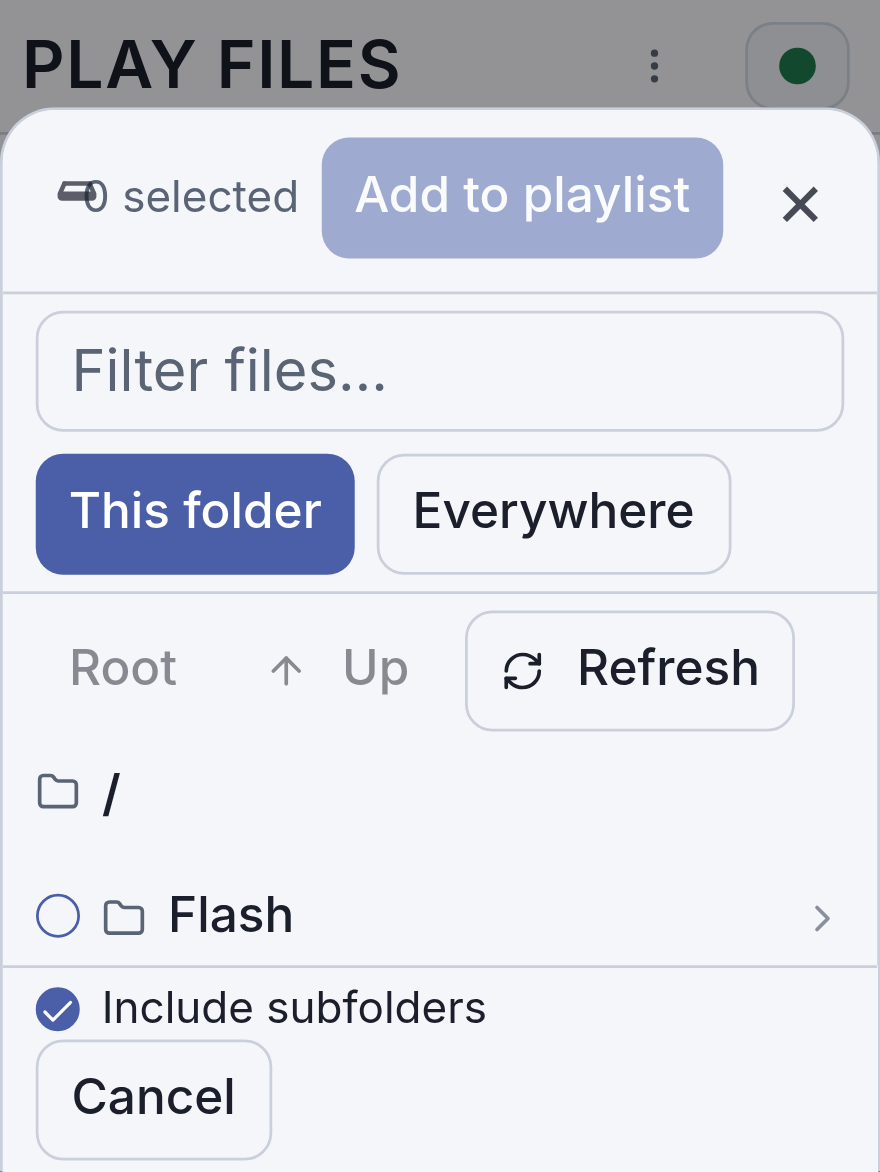
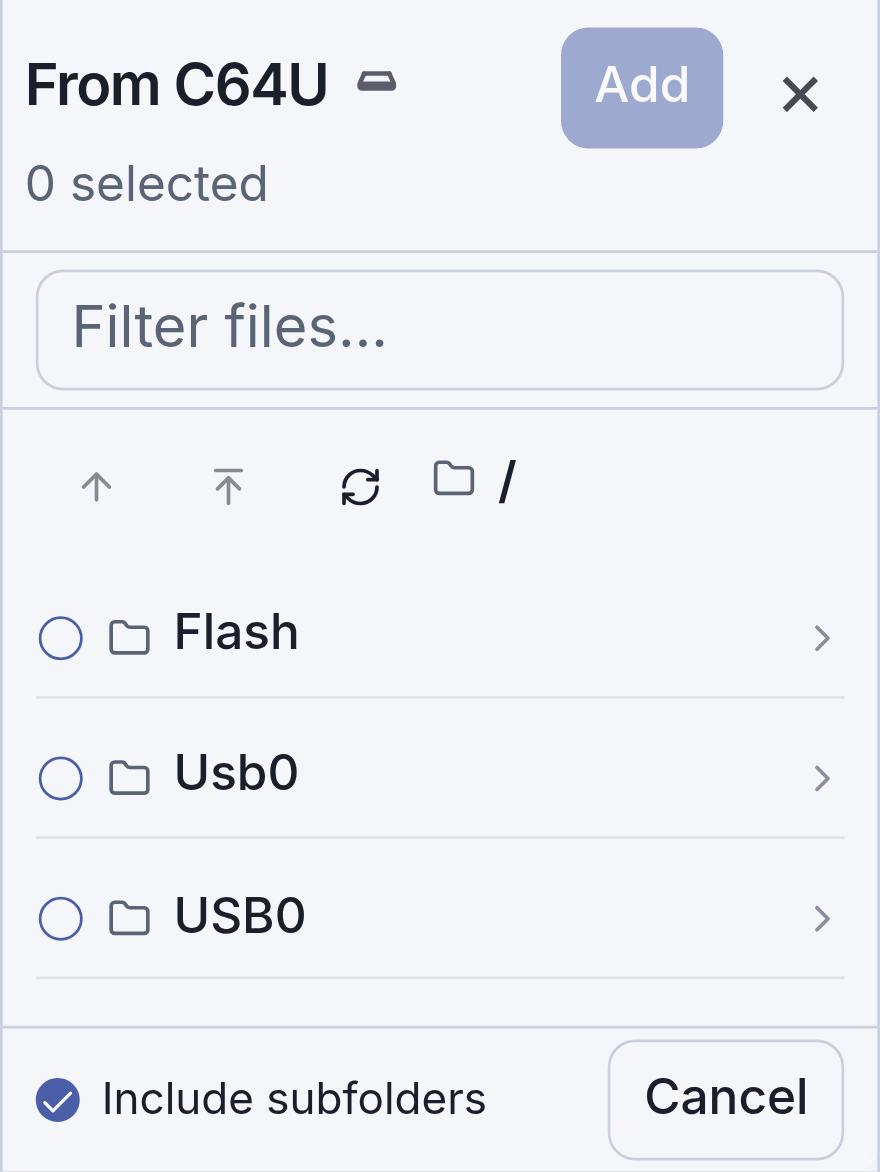
fix(browse): keep the source title readable in the compact picker header
On a 320 px screen the header holds the source title, the confirm button
and Close. With "Add to playlist" on the button the title was cut to
"Fro...". The compact header copy of the button now shows the verb only
("Add", "Mount") and keeps the full label as its accessible name.

The compact scope control appears once there is search text, so the HVSC
scope capture now searches a folder with a match; the mocked archive has no
search index for an everywhere search to show. The manual caption for that
picture now describes the choice. Screenshots updated: the compact C64U
picker and the compact and medium HVSC scope pictures.

diff --git a/playwright/screenshots.spec.ts b/playwright/screenshots.spec.ts
@@ -3369,10 +3369,20 @@ test.describe("App screenshots", () => {
       // other three are README pictures and stay at the medium profile the whole file is
       // captured at.
       await applyDisplayProfileViewport(page, "compact");
-      const scope = readyDialog.getByTestId("add-items-search-scope");
-      await expect(scope).toBeVisible();
-      await readyDialog.getByTestId("add-items-scope-source").click();
-      await expect(readyDialog.getByTestId("add-items-scope-source")).toHaveAttribute("aria-pressed", "true");
+      // The compact profile shows the scope control once there is something to search for. The
+      // mocked archive has no search index, so the picture searches a folder that has a match.
+      for (const folder of ["MUSICIANS", "A"]) {
+        await readyDialog
+          .getByTestId("source-entry-row")
+          .filter({ hasText: new RegExp(`^\\s*${folder}\\s*$`) })
+          .first()
+          .click();
+      }
+      await readyDialog.getByTestId("add-items-filter").fill("Second");
+      await expect(readyDialog.getByTestId("add-items-search-scope")).toBeVisible();
+      await readyDialog.getByTestId("add-items-scope-folder").click();
+      await expect(readyDialog.getByTestId("add-items-scope-folder")).toHaveAttribute("aria-pressed", "true");
+      await expect(readyDialog.getByTestId("source-entry-row").filter({ hasText: /Second/ })).toBeVisible();
       // One rendition per manual profile; each manual embeds only its own.
       for (const profileId of MANUAL_PROFILE_SEQUENCE) {
         await applyDisplayProfileViewport(page, profileId);

diff --git a/src/components/itemSelection/ItemSelectionDialog.tsx b/src/components/itemSelection/ItemSelectionDialog.tsx
@@ -44,6 +44,7 @@ const isLocalAutoConfirmDisabled = () =>
   typeof window !== "undefined" &&
   Boolean((window as Window & { __c64uDisableLocalAutoConfirm?: boolean }).__c64uDisableLocalAutoConfirm);
 
+const firstWord = (label: string): string => label.split(" ")[0];
 export type SourceGroup = {
   label: string;
   sources: SourceLocation[];
@@ -617,6 +618,8 @@ export const ItemSelectionDialog = ({
     </p>
   );
 
+  // The header shares one line with the source title on a 320 px screen, where "Add to playlist"
+  // left the title as "Fro…". The verb says what the button does; the page says where to.
   const headerConfirmButton = showCompactHeaderConfirm ? (
     <Button
       variant="default"
@@ -624,9 +627,10 @@ export const ItemSelectionDialog = ({
       onClick={handleConfirm}
       disabled={isConfirming || autoConfirming || activeSelectionCount === 0}
       data-testid="add-items-confirm"
+      aria-label={resolvedConfirmLabel}
       className="shrink-0"
     >
-      {resolvedConfirmLabel}
+      {firstWord(resolvedConfirmLabel)}
     </Button>
   ) : null;
 

diff --git a/tests/unit/components/itemSelection/ItemSelectionDialog.test.tsx b/tests/unit/components/itemSelection/ItemSelectionDialog.test.tsx
@@ -269,6 +269,22 @@ describe("ItemSelectionDialog display profiles", () => {
     vi.useRealTimers();
   });
 
+  it("keeps the source title readable on the smallest screen by naming only the confirm verb", async () => {
+    localStorage.clear();
+    setViewportWidth(320);
+
+    render(
+      <DisplayProfileProvider>
+        <Harness />
+      </DisplayProfileProvider>,
+    );
+    fireEvent.click(screen.getByRole("button", { name: "Add file / folder from C64U" }));
+
+    const confirm = await screen.findByTestId("add-items-confirm");
+    expect(confirm).toHaveTextContent(/^Add$/);
+    expect(confirm).toHaveAccessibleName("Add to playlist");
+  });
+
   it("keeps the browser as a sheet across profile changes while preserving selection and filter state", async () => {
     localStorage.clear();
     setViewportWidth(360);

diff --git a/docs/manual/c64u-remote/c64u-remote-manual.md b/docs/manual/c64u-remote/c64u-remote-manual.md
@@ -381,7 +381,7 @@ To search instead of browsing, type in the box at the top and choose **Everywher
 
 Some sources have to be read one folder at a time, such as a folder on your device or the card in your C64. These offer a **Scan** button instead of searching as you type.
 
-![Searching the whole of HVSC rather than one folder](../../img/app/play/import/profiles/compact/09-hvsc-search-scope.png)
+![Choosing whether a search covers this folder or the whole of HVSC](../../img/app/play/import/profiles/compact/09-hvsc-search-scope.png)
 
 Preferred path: add a whole folder first, then filter the playlist to pick what plays next.
 

diff --git a/docs/manual/c64commander/c64commander-manual.md b/docs/manual/c64commander/c64commander-manual.md
@@ -383,7 +383,7 @@ To search instead of browsing, type in the box at the top and choose **Everywher
 
 Some sources have to be read one folder at a time, such as a folder on your device or the card in your C64. These offer a **Scan** button instead of searching as you type.
 
-![Searching the whole of HVSC rather than one folder](../../img/app/play/import/profiles/medium/09-hvsc-search-scope.png)
+![Choosing whether a search covers this folder or the whole of HVSC](../../img/app/play/import/profiles/medium/09-hvsc-search-scope.png)
 
 Preferred path: add a whole folder first, then filter the playlist to pick what plays next.
 

diff --git a/docs/cta-inventory.md b/docs/cta-inventory.md
@@ -1201,7 +1201,9 @@ their feature flag and library state allow it.
 
 **Header**
 
-- Confirm — button — `add-items-confirm` — labelled by the caller ("Add", "Mount");
+- Confirm — button — `add-items-confirm` — labelled by the caller ("Add to playlist",
+  "Mount"); the compact header copy shows only the first word, with the full label as its
+  accessible name;
   disabled while nothing is selected or a confirm is already running. It is rendered
   **twice**: in the header on the compact profile (`showCompactHeaderConfirm`) and in
   the footer otherwise, so exactly one is on screen at a time
